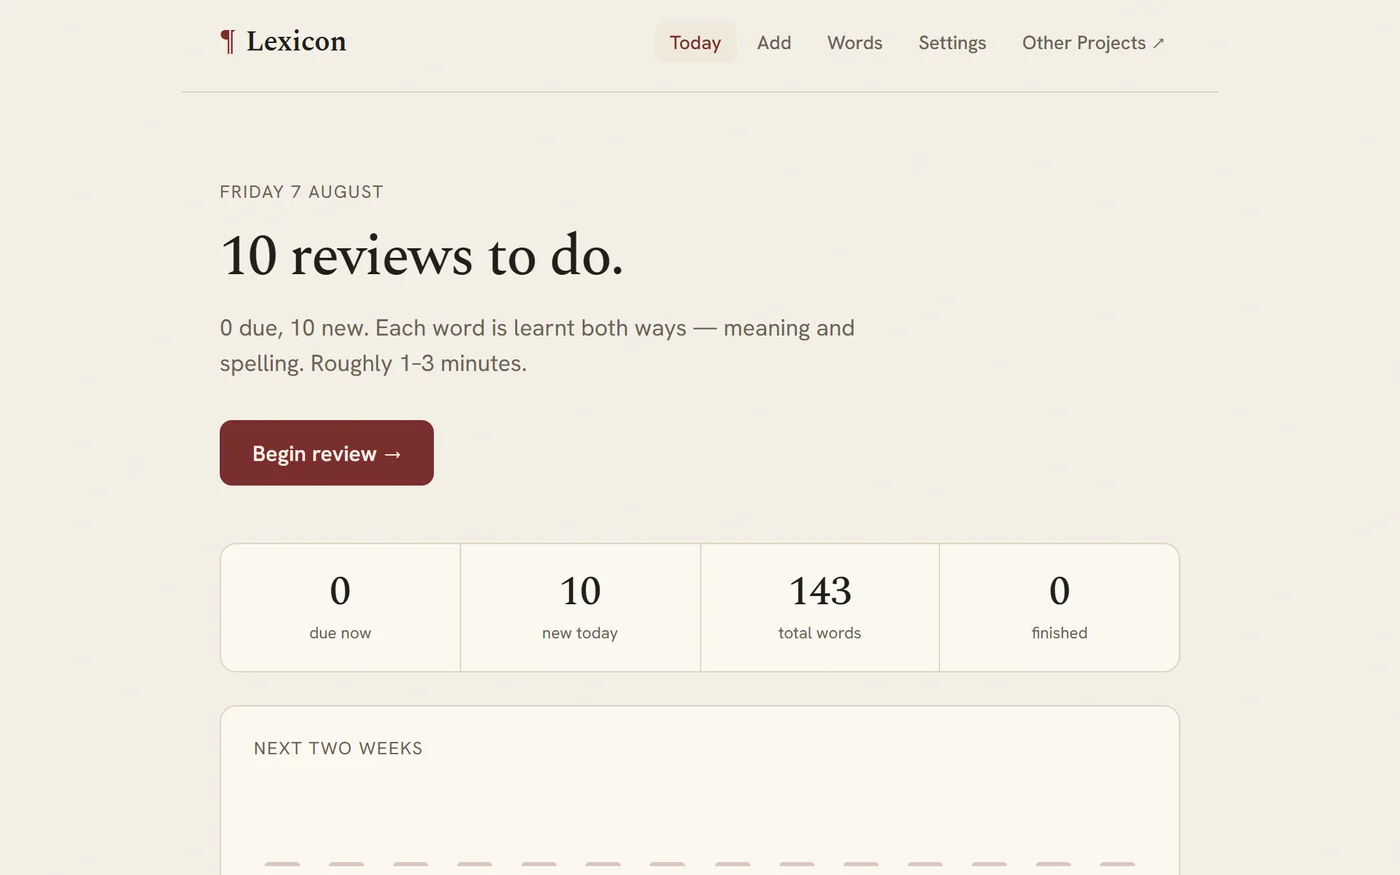
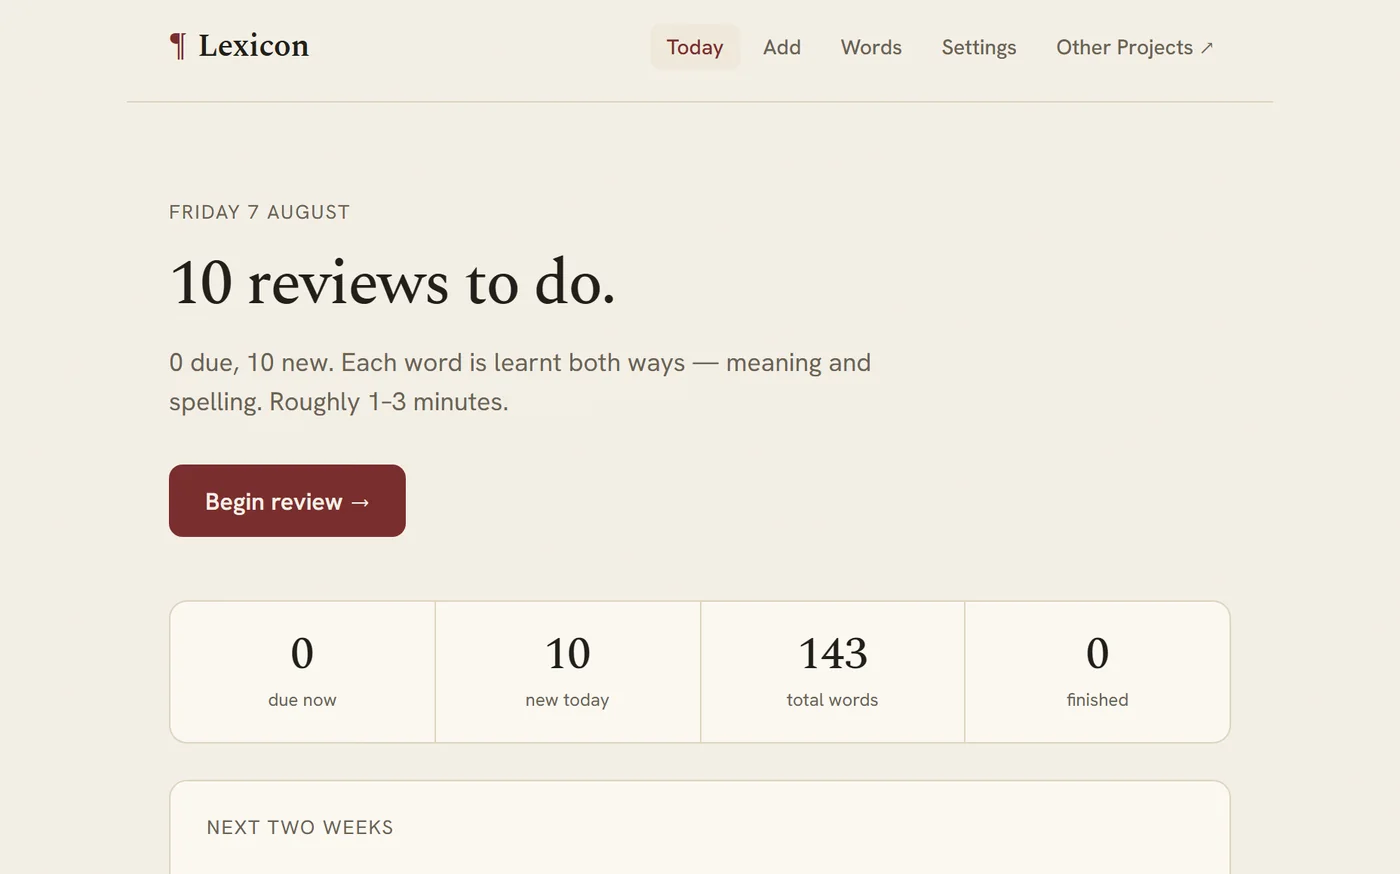
Pin the Beyond Small Talk question, tighten Lexicon, hide the stats link
- A PREPARE hook sets the question before the shot. Leaving a card to a random
  draw meant it had landed on "What's the highest you've ever been?", which is not
  the line to lead a public site with. Setting only the size bucket dropped the
  base class and rendered it at body size - the page's contract is "q" plus a
  len-* bucket.
- Widening cap 1.35 -> 1.22, so Lexicon reads slightly larger.
- The stats link is now hidden unless the browser has been opted in with
  #stats-on, and it points at stats.charlietrenorden.com. The flag only controls
  whether the LINK shows; the dashboard itself is gated server-side, so forging
  the flag still gets a 404.
- A hashchange listener too: adding the hash to an already-open page is a
  same-document navigation, so nothing re-runs on its own.

diff --git a/index.html b/index.html
@@ -196,7 +196,7 @@
   </a>
 
   <a class="proj" href="lexicon/">
-    <div class="thumb"><img src="assets/lexicon.webp" alt="Screenshot of the Lexicon vocabulary review app" loading="lazy" width="1400" height="875"></div>
+    <div class="thumb"><img src="assets/lexicon.webp" alt="Screenshot of the Lexicon vocabulary review app" loading="lazy" width="1400" height="874"></div>
     <div class="meta">
       <div class="head"><span class="name">Lexicon</span><span class="status s-live">Live</span></div>
       <p class="desc">A quiet place for words - a spaced-repetition vocabulary tool. Add a word, review what's due, and learn each one both ways: meaning and spelling.</p>
@@ -310,13 +310,35 @@
   </div>
 
   <p class="foot">Sydney, Australia
-    <!-- Gated: opens only for a browser holding the key cookie, 404s for everyone
-         else, so it is safe to link from a public page. -->
-    <span class="sep">&middot;</span><a class="quiet" href="https://site-stats-cus.pages.dev/">Stats</a>
+    <!-- Hidden unless this browser has been opted in with #stats-on. The flag only
+         controls whether the LINK is shown; the page itself is gated server-side, so
+         a reader who forges the flag still gets a 404. -->
+    <span id="statsLink" hidden><span class="sep">&middot;</span><a class="quiet" href="https://stats.charlietrenorden.com/">Stats</a></span>
   </p>
 </div>
 
 <script>
+  /* Show the stats link only on a browser that has opted in: load the site once
+     with #stats-on. This is presentation, not security - the dashboard is gated
+     server-side and 404s for anyone without the key cookie. */
+  function syncStatsLink() {
+    try {
+      if (location.hash === "#stats-on") {
+        localStorage.setItem("stats", "1");
+        history.replaceState(null, "", location.pathname);
+      } else if (location.hash === "#stats-off") {
+        localStorage.removeItem("stats");
+        history.replaceState(null, "", location.pathname);
+      }
+      document.getElementById("statsLink").hidden =
+        localStorage.getItem("stats") !== "1";
+    } catch (e) { /* private mode: leave it hidden */ }
+  }
+  /* also on hashchange: adding the hash to a page already open is a same-document
+     navigation, so nothing re-runs on its own */
+  window.addEventListener("hashchange", syncStatsLink);
+  syncStatsLink();
+
   var root = document.documentElement;
   var btn = document.getElementById("themeBtn"), lbl = document.getElementById("themeLbl");
   function sync() { lbl.textContent = root.getAttribute("data-theme") === "dark" ? "Dark" : "Light"; }

diff --git a/tools/shoot_thumbnails.py b/tools/shoot_thumbnails.py
@@ -78,7 +78,21 @@ DISMISS = {
 # so there is margin available to spend.
 FIT = ["lexicon", "chronoscape"]
 VIEW_FIT = {"width": 1800, "height": 1150}
-MAX_WIDEN = 1.35        # how much side margin the frame may spend before the type gets too small
+MAX_WIDEN = 1.22        # how much side margin the frame may spend before the type gets too small
+
+# JS run after load, before the shot. A page that shows something at random should
+# not leave its card to chance - Beyond Small Talk drew "What's the highest you've
+# ever been?", which is not the line to lead a public site with.
+PREPARE = {
+    # Set the text, then restore the page's own class contract: "q" plus a len-*
+    # bucket that drives the type size. Setting only the bucket dropped the base
+    # class and the question rendered at body size.
+    "beyond-small-talk": """() => {
+        const q = document.getElementById('q');
+        q.textContent = 'What are you pretending not to know?';
+        q.className = 'q len-s';
+    }""",
+}
 
 # Sites that look better - or are designed - dark. Playwright emulates light by
 # default, so a site that keys off prefers-color-scheme renders in its light theme
@@ -275,6 +289,9 @@ def main():
                 except Exception:                    # noqa: BLE001
                     pass                             # the modal may not have shown
 
+            if slug in PREPARE:
+                page.evaluate(PREPARE[slug])
+                page.wait_for_timeout(300)
 
             im = framed(page, slug, tmp / f"{slug}.png", scale)
             if im.width > TARGET_W:
